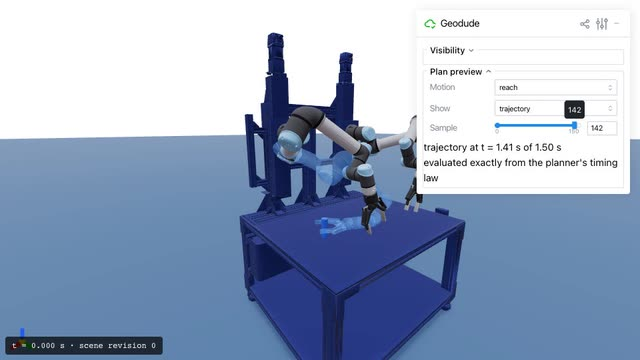
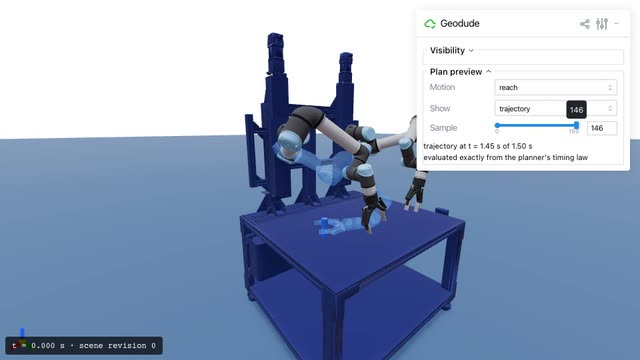
Size the contact and preview captions like the other panels' text
The ContactOverlay and MotionPreview captions were bare HTML at the
browser's default size, larger than the 11 px text of the channel panels
beside them. Both now use 11 px. The plan-preview clip is recaptured to
show it.

Changed region(s): [[0.625, 0.3972, 1.0, 0.55], [0.875, 0.275, 0.9375, 0.3667]]

diff --git a/src/mj_viser/contacts.py b/src/mj_viser/contacts.py
@@ -257,7 +257,8 @@ class _ClientContacts:
 
     def _render(self, contacts: ContactSet | None) -> None:
         scale = self.scale_m_per_n
-        self.caption.content = "<br>".join(html.escape(line) for line in describe(contacts, scale))
+        lines = "<br>".join(html.escape(line) for line in describe(contacts, scale))
+        self.caption.content = f'<div style="font-size:11px">{lines}</div>'  # the channel panels' size
         for node in self._nodes.values():
             node.remove()
         self._nodes = {}

diff --git a/src/mj_viser/preview.py b/src/mj_viser/preview.py
@@ -477,4 +477,5 @@ def record_motion(
 
 
 def _caption(lines: list[str]) -> str:
-    return "<br>".join(html.escape(line) for line in lines)
+    # The channel panels' text size, so every panel's text matches.
+    return '<div style="font-size:11px">' + "<br>".join(html.escape(line) for line in lines) + "</div>"
